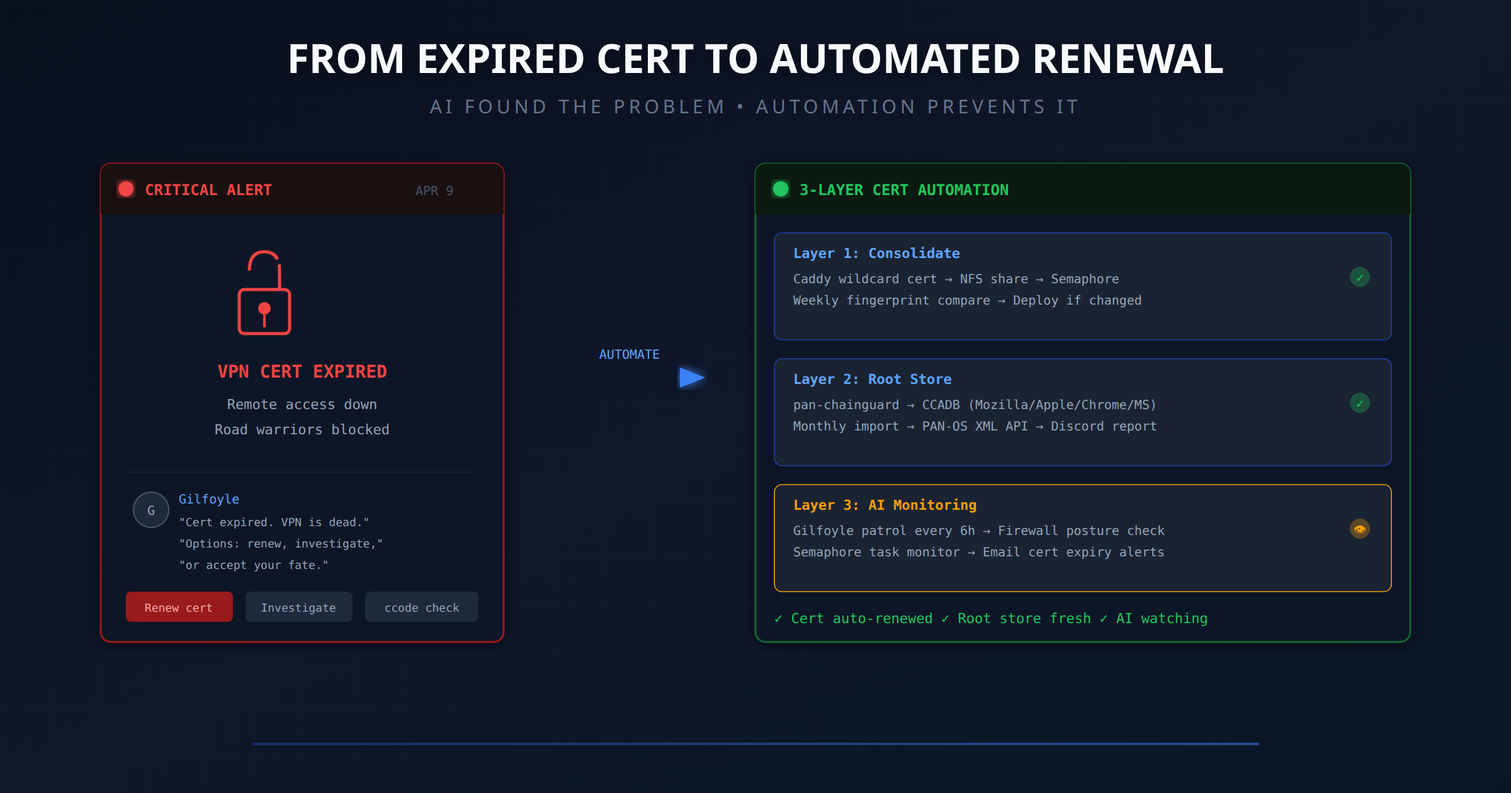
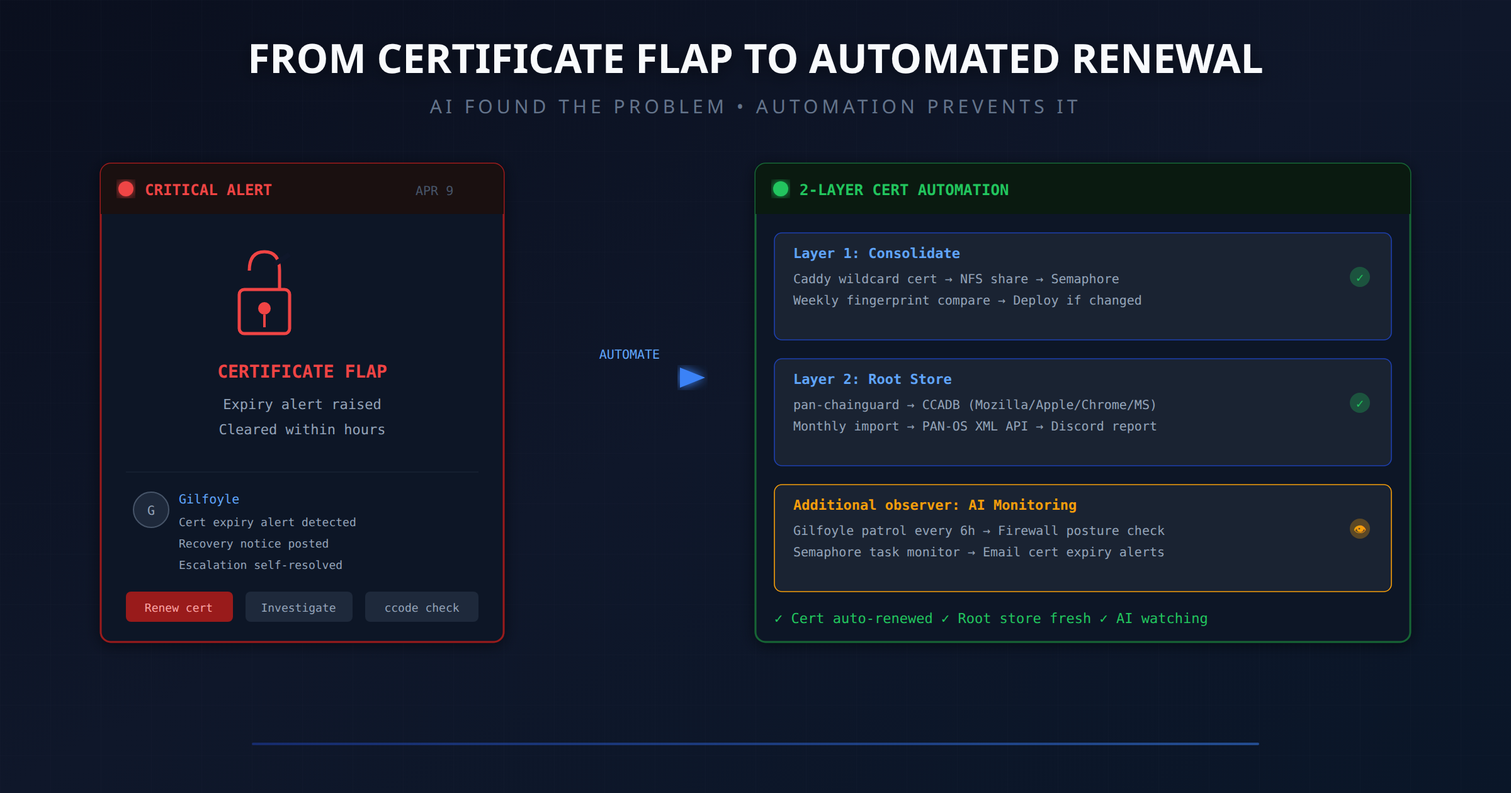
posts: update Gilfoyle stories and bounded authority

diff --git a/content/posts/2026/2026-10-14-gilfoyle-bounded-authority/policy-verification.html b/content/posts/2026/2026-10-14-gilfoyle-bounded-authority/policy-verification.html
@@ -1,0 +1,11 @@
+<!doctype html><html lang="en"><meta charset="utf-8"><meta name="viewport" content="width=device-width,initial-scale=1"><title>Gilfoyle policy verification</title><style>html,body{margin:0;background:#0f172a;color:#e2e8f0;font:21px Arial,sans-serif}main{box-sizing:border-box;width:1200px;height:960px;padding:45px 62px}.kicker{font:16px monospace;letter-spacing:2px;color:#93c5fd;margin:0 0 15px}h1{font-size:38px;line-height:1.15;margin:0 0 14px}p{color:#94a3b8;font-size:18px;line-height:1.4;margin:0 0 24px}ul{list-style:none;margin:0;padding:0;display:grid;gap:9px}li{display:flex;align-items:center;gap:20px;border-bottom:1px solid #1e293b;padding:7px 0}.result{display:inline-block;font:700 16px monospace;min-width:62px;color:#4ade80}.note{margin-top:22px;padding:17px 21px;background:#17243a;border-left:4px solid #f59e0b;color:#fcd34d;font-size:18px;line-height:1.4}footer{font:15px monospace;color:#94a3b8;margin-top:20px}</style><main><p class="kicker">READ-ONLY PRODUCTION EVIDENCE | 2026-10-14 PACIFIC</p><h1>Policy deployed. Fresh-session prompt verified.</h1><p>Checks against installed policy, stored session evidence and service state.<br>No messages sent. No sessions reset. No repairs triggered.</p><ul><li><span class="result">PASS</span><span>Deployed policy matches committed source</span></li>
+<li><span class="result">PASS</span><span>Recorded fresh Discord-route session found</span></li>
+<li><span class="result">PASS</span><span>Stored system prompt integrity verified</span></li>
+<li><span class="result">PASS</span><span>Exact deployed authority block loaded</span></li>
+<li><span class="result">PASS</span><span>Both permanent prohibitions present</span></li>
+<li><span class="result">PASS</span><span>Gateway active</span></li>
+<li><span class="result">PASS</span><span>Alert intake timer active</span></li>
+<li><span class="result">PASS</span><span>Remediation controller inactive</span></li>
+<li><span class="result">PASS</span><span>Controller timer disabled</span></li>
+<li><span class="result">PASS</span><span>Remediation observer inactive</span></li>
+<li><span class="result">PASS</span><span>Observer timer disabled</span></li></ul><div class="note">Existing warm-session adoption was not tested or forced.<br>Loaded policy text does not prove future model obedience.</div><footer>Identifiers and runtime paths omitted. Results exported from actual read-only checks.</footer></main></html>

diff --git a/content/posts/2026/gilfoyle-ai-network-admin/index.md b/content/posts/2026/gilfoyle-ai-network-admin/index.md
@@ -1,17 +1,26 @@
 ---
 title: "Meet Gilfoyle: I Hired a Sarcastic AI to Watch My Homelab 24/7"
 date: 2026-04-18
-lastmod: 2026-09-17
+lastmod: 2026-10-14
 tags: ["architecture", "lesson-learned"]
 topics: ["automation", "claude-code", "mcp", "security", "monitoring", "infrastructure", "ai"]
 difficulties: ["advanced"]
-description: "How I turned a unified MCP server into the nervous system for a 24/7 AI network admin, complete with trust levels, 4x daily patrols, and a hard lesson about LLMs misreading charts."
+description: "A sarcastic AI watched my homelab, caught real incidents, and misread a chart. The lesson: earn trust with evidence before granting authority."
 ---
+
+> **Update, October 14, 2026.** The patrols, capabilities, and trust ladder
+> below describe Gilfoyle's April rollout. A Level 4 policy now defines
+> bounded authority for single-service repairs with a known rollback and
+> fault-specific checks. The unattended controller remains inactive.
+> Verification showed that a fresh session on the Discord route loaded the
+> October 14 policy; already-warm sessions can retain their older prompts.
+> The [next chapter]({{< relref "/posts/2026/2026-10-14-gilfoyle-bounded-authority" >}})
+> explains what changed and what still needs verification.
 
 > **Correction, September 2026.** The tool-access story in this post drifted
 > from reality. The `:8100` REST layer described below was decommissioned
-> 2026-06-17 — records show it was never operationally provisioned in the
-> first place. Gilfoyle's current access path is the **homelab-mcp CLI**:
+> 2026-06-17. Records show it was never operationally provisioned in the
+> first place. The verified access path for that correction was the **homelab-mcp CLI**:
 > up to 25 read-only tools across 10 configured backends, no write tools at
 > all. The IPAM backend is Nautobot (NetBox retained rollback-only). The
 > agent design, patrols, and the false-positive incident below are unchanged
@@ -31,9 +40,9 @@ So I hired Gilfoyle.
 
 Named after the paranoid, competent sysadmin from Silicon Valley, Gilfoyle is an AI agent running on [Hermes](https://hermes.ai/), an open-source AI gateway that connects LLMs to messaging platforms with built-in tool execution, session management, and security controls.
 
-Gilfoyle lives on a dedicated LXC in my Proxmox cluster, monitors 20 Discord channels, and has access to the homelab's read-only infrastructure tools through the MCP CLI. He runs infrastructure patrols four times a day, triages every alert that fires, generates daily and weekly reports, and stays in character while doing it.
+At the April launch, Gilfoyle lived on a dedicated LXC in my Proxmox cluster, monitored 20 Discord channels, and had access to read-only infrastructure tools. He ran infrastructure patrols four times a day, triaged alerts, generated daily and weekly reports, and stayed in character while doing it. The September correction above clarifies the tool-access path.
 
-He's also read-only by default, can't delete anything, and needs my explicit approval before touching a single container. More on that later.
+That first version was an observer by policy and needed my explicit approval before touching a single container. More on that later.
 
 ## The MCP Connection
 
@@ -43,9 +52,9 @@ That MCP server became Gilfoyle's nervous system. Every patrol check, every aler
 
 An earlier draft of this post described a REST API layer on port 8100 that supposedly extended the MCP server to 34 tools across 11 services. That layer was never operationally provisioned and was formally decommissioned 2026-06-17. Gilfoyle's actual access path is plainer and safer: the `homelab-mcp-cli` entry point, invoking the same read-only tools, with IPAM queries served by Nautobot since it replaced NetBox.
 
-## What Gilfoyle Actually Does
+## What Gilfoyle Did in April
 
-### 12 Active Capabilities
+### 12 Capabilities in the Original Setup
 
 | # | Capability | Schedule | What It Does |
 |---|-----------|----------|--------------|
@@ -64,7 +73,7 @@ An earlier draft of this post described a REST API layer on port 8100 that suppo
 
 ### The Infrastructure Patrol
 
-This is where it gets interesting. Four times a day (03:45, 09:45, 15:45, 21:45 PT), Gilfoyle runs a 10-check sweep:
+This was where it got interesting. Four times a day (03:45, 09:45, 15:45, 21:45 PT), Gilfoyle ran a 10-check sweep:
 
 1. **Prometheus alerts:** anything currently firing
 2. **Backup health:** failed PBS jobs in the last 24h
@@ -77,19 +86,19 @@ This is where it gets interesting. Four times a day (03:45, 09:45, 15:45, 21:45 
 9. **Wazuh security:** disconnected agents, high-level alerts, FIM changes
 10. **cc-discord gateway:** bot service uptime, memory, restarts
 
-Here's what a real patrol looks like. This is from April 17, the 09:45 PT patrol that caught a genuine critical issue:
+Here's what a real patrol looks like. This is from April 17, the 09:45 PT patrol that caught a genuine critical issue. Hostnames are replaced with role labels:
 
 > **PATROL 09:45 PT | 1 critical, 0 warning, 0 info**
 >
 > **Services:** Prometheus 0 firing | Caddy HA healthy | Pi-hole HA healthy | Semaphore 0 failed | n8n 22 active | Graylog 0 errors | Firewall 737 sessions (0.4%)
 >
-> **Security:** Wazuh 5/6 agents | mario-pc still asleep
+> **Security:** Wazuh 5/6 agents | Workstation still asleep
 >
 > **DNS:** 98 records, both Pi-hole nodes in sync
 >
 > ---
 >
-> **🔴 CRITICAL: cc-discord crash loop on atlas**
+> **CRITICAL: cc-discord crash loop on Agent-Gateway**
 >
 > cc-discord is down and restarting repeatedly. Watchdog timeout at 09:38, 71 restarts since then. Current state: `activating (auto-restart)`.
 >
@@ -141,7 +150,7 @@ Giving an AI agent access to your infrastructure sounds terrifying. It should. H
 
 ### The Trust Level System
 
-Gilfoyle operates under an explicit trust hierarchy, borrowed from how real organizations onboard sysadmins:
+The original design used an explicit trust hierarchy, borrowed from how real organizations onboard sysadmins:
 
 | Level | Role | Can Do |
 |-------|------|--------|
@@ -150,11 +159,11 @@ Gilfoyle operates under an explicit trust hierarchy, borrowed from how real orga
 | **3: Operator** | All of L2 + restart with approval | Restart one service at a time, after explicit approval |
 | **4: Admin** | All of L3 + config changes with approval | Modify configurations, deploy changes |
 
-Gilfoyle currently operates at **Level 1: Observer**. He can investigate everything but execute nothing without my explicit approval. Trust is earned over time, not granted by default.
+In April, Gilfoyle operated at **Level 1: Observer**. The policy allowed investigation and recommendations, with execution requiring my explicit approval. Trust was meant to be earned over time, not granted by default. The October policy has a different boundary, covered in the next chapter.
 
 ### Hard Rules (Never Break These)
 
-Written directly into Gilfoyle's agent instructions:
+Written directly into Gilfoyle's original April agent instructions:
 
 1. **READ-ONLY by default.** No infrastructure changes without approval.
 2. **NEVER delete a host, VM, LXC, or container.** Absolute prohibition.
@@ -163,7 +172,7 @@ Written directly into Gilfoyle's agent instructions:
 
 ### The Approval Workflow
 
-Every recommended action follows the same protocol:
+The original approval protocol was:
 
 1. **State the problem.** What alert fired, what was observed.
 2. **Recommend the action.** Specific commands or steps.
@@ -172,11 +181,11 @@ Every recommended action follows the same protocol:
 5. **Execute exactly what was approved.** Nothing more.
 6. **Report the result.** Confirm what happened.
 
-The original version of this section mapped the approval workflow onto the MCP server's `confirm=true` gate. The current server enforces something stronger by simply having no write tools: when Gilfoyle recommends an action, a human executes it through the owning system (Semaphore, Proxmox, DNS pipeline) with its own log. Approval is structural, not a flag.
+The original version of this section mapped the approval workflow onto the MCP server's `confirm=true` gate. The September correction established that this interface had no write tools. Infrastructure changes needed a separate execution path through the owning system (Semaphore, Proxmox, or the DNS pipeline). A read-only interface constrains that interface; it does not prove that every other action path is read-only.
 
 ### Hermes Security Layers
 
-Beyond Gilfoyle's behavioral constraints, Hermes provides defense-in-depth:
+The April design also relied on Hermes security controls:
 
 **Access control before intelligence:**
 - **DM pairing.** Unknown senders must be explicitly approved before the bot responds.
@@ -185,7 +194,7 @@ Beyond Gilfoyle's behavioral constraints, Hermes provides defense-in-depth:
 
 **Tool policy and sandboxing:**
 - **Tool deny lists.** Dangerous tools (`gateway`, `cron`, `sessions_spawn`) are blocked by default.
-- **Scoped tool access.** Gilfoyle reaches infrastructure through the read-only homelab-mcp CLI; there are no write tools to scope. State-changing actions require a human in the owning system.
+- **Scoped MCP access.** The corrected interface exposed read-only infrastructure tools. It did not execute the recommended actions listed above.
 - **Workspace isolation.** Each agent gets its own workspace directory with controlled filesystem access.
 
 **Prompt injection defense:**
@@ -202,7 +211,7 @@ This checks inbound access, tool blast radius, network exposure, browser control
 
 <!-- SCREENSHOT: Terminal output of hermes security audit showing security posture -->
 
-The philosophy is simple: **design so that manipulation has limited blast radius.** If Gilfoyle gets tricked by a crafted message, the worst he can do is read data and post to Discord. He can't delete a VM, can't modify a config, can't restart a service. The safety net is structural, not behavioral.
+The philosophy is simple: **design so that manipulation has limited blast radius.** Read-only MCP tools helped limit infrastructure access. Broader claims about what the agent could never do needed proof across its other tools, too. An instruction saying "observer" is not an operating-system permission boundary.
 
 ## The Incident: When Gilfoyle Cried Wolf
 
@@ -218,7 +227,7 @@ I asked ccode (my Claude Code CLI bot) to investigate. The actual value was **3.
 
 ### What Happened
 
-Gilfoyle read a Netdata chart and inverted the metric. `100 - 3.71 = 96.29%`, which rounds to ~96.6%. He read the *headroom* (available FDs) and reported it as *utilization*.
+The investigation pointed to a Netdata chart interpretation problem: confusing *headroom* (available FDs) with *utilization*. Gilfoyle reported roughly 96.6%, while the measured value was 3.71%. Its complement is 96.29%, which does not round to 96.6%. The exact path to the reported number was not established.
 
 The clues were all there. Prometheus showed no firing alerts, Graylog showed zero errors, `pg_stat_activity` reported only 9 connections out of a 100 max. But Gilfoyle confidently reported a warning because the chart value looked alarming without understanding which dimension he was reading.
 
@@ -296,12 +305,12 @@ Without dedup windows and cascade detection, Gilfoyle would post the same alert 
 
 None of this works without the unified tool interface from the previous post — up to 25 read-only tools across 10 backends, callable through one CLI. Gilfoyle doesn't SSH into boxes or parse HTML dashboards. He calls structured tools and gets structured data back. The MCP server turned "monitor my homelab" from an impossible ask into a weekend project.
 
-## What's Next
+## What Came Next
 
-Gilfoyle is still at Trust Level 1. The plan is to promote him to Level 2 (Advisor) once he's demonstrated consistent accuracy on alert classification for 30 days. Level 3 (Operator) will require implementing proper audit logging so every action is recorded and reversible.
+In April, the plan was to promote Gilfoyle from Observer to Advisor after 30 days of accurate classification, then add audit logging before allowing operations. That was a plan, not a report of completed promotions.
 
 The false-positive incident actually accelerated trust, not because the error was acceptable, but because the safety system caught it cleanly. A system that fails safely earns trust faster than one that's never been tested.
 
-In the meantime, Gilfoyle watches. Four times a day, he sweeps every service, checks every metric, and reports back. Usually it's "all clear." Sometimes it's "heads up, disk is trending." Occasionally it's "this looks broken, here are your options."
+By October 14, the policy had changed to bounded Level 4 authority. A fresh Discord-route session was verified to have loaded it, while warm sessions retained older prompts. The unattended controller still was not active, so unattended repairs remained diagnose, report, and recommend. [Gilfoyle's bounded-authority chapter]({{< relref "/posts/2026/2026-10-14-gilfoyle-bounded-authority" >}}) follows that change and the limits of the rollout proof.
 
 And he does it all while staying in character. Dry, competent, slightly sarcastic. Just like the original.

diff --git a/content/posts/2026/gilfoyle-vpn-cert-automation/index.md b/content/posts/2026/gilfoyle-vpn-cert-automation/index.md
@@ -1,11 +1,21 @@
 ---
 title: "Gilfoyle Caught an Expired VPN Cert at Midnight. I Made Sure It Never Happens Again."
 date: 2026-04-19
+lastmod: 2026-10-14
 tags: ["lesson-learned", "architecture"]
 topics: ["panos", "caddy", "semaphore", "ansible", "certificates", "automation", "security", "mcp", "ai"]
 difficulties: ["intermediate"]
-description: "When my AI sysadmin flagged an expired VPN certificate, I realized I was one flap away from losing remote access. Here's how I automated the entire cert lifecycle."
+description: "An expired VPN certificate exposed duplicate renewal jobs. I consolidated them around Caddy and Semaphore, with Gilfoyle watching for failures."
 ---
+
+> **Update, October 14, 2026.** This is the April certificate incident and
+> the automation design that followed it. The monitoring schedules below
+> describe that original setup, not a fresh verification of today's jobs.
+> Gilfoyle now has a Level 4 policy for bounded repairs, but the unattended
+> controller remains inactive. A fresh Discord-route session loaded the new
+> policy; warm sessions retained older prompts. The
+> [next chapter]({{< relref "/posts/2026/2026-10-14-gilfoyle-bounded-authority" >}})
+> explains the rollout. It does not make certificate renewal an AI task.
 
 ## The Wake-Up Call
 
@@ -25,7 +35,7 @@ My VPN certificate management was a mess:
 
 → **Caddy** already auto-renews `*.<YOUR_DOMAIN>` via Let's Encrypt (Cloudflare DNS-01 challenge)
 → **PAN-OS** needs that same wildcard cert for the GlobalProtect VPN portal
-→ A **dedicated LXC** (30122) was running acme.sh separately, doing the exact same job Caddy already does
+→ A **dedicated certificate LXC** was running acme.sh separately, doing the exact same job Caddy already does
 → No monitoring on any of it, until Gilfoyle started watching
 
 Two ACME clients renewing the same wildcard cert. An entire VM that existed solely to shuffle a certificate from point A to point B. And zero visibility into whether any of it was actually working.
@@ -38,7 +48,7 @@ I didn't build this all at once. Each piece was a response to a real problem. Th
 
 **Problem:** Why run two separate ACME clients for the same wildcard cert?
 
-**Solution:** Kill LXC 30122. Reuse Caddy's cert.
+**Solution:** Retire the dedicated certificate LXC. Reuse Caddy's cert.
 
 Caddy already auto-renews `*.<YOUR_DOMAIN>` and stores the cert/key on an NFS share (HA NFS pair). Proxmox mounts that share. A Semaphore Ansible playbook runs weekly, compares the Caddy cert fingerprint against what's on the firewall, and only deploys when they differ.
 
@@ -66,10 +76,10 @@ One ACME client. One renewal schedule. One less VM to maintain.
 
 **Solution:** Gilfoyle.
 
-This is where the [MCP server]({{< relref "/posts/2026/unified-homelab-mcp-server" >}}) and the [AI sysadmin]({{< relref "/posts/2026/gilfoyle-ai-network-admin" >}}) tie together. Every 6 hours, Gilfoyle's infrastructure patrol checks:
+This is where the [MCP server]({{< relref "/posts/2026/unified-homelab-mcp-server" >}}) and the [AI sysadmin]({{< relref "/posts/2026/gilfoyle-ai-network-admin" >}}) tied together. In the April setup, Gilfoyle's infrastructure patrol checked every 6 hours:
 
 - **Firewall posture** via `fw_status()`, including interface health, HA state, session count
-- **Certificate expiry**, caught by email-monitor (UTK-A sends alerts when certs approach expiry)
+- **Certificate expiry**, caught by email-monitor (the firewall sends alerts when certs approach expiry)
 - **Semaphore failures**, flagging if the weekly cert deploy playbook failed
 
 When Gilfoyle sees a cert-related alert, the alert-correlator kicks in:
@@ -127,7 +137,7 @@ I want to be clear about what the AI actually did here:
 2. **Claude Code (ccode) investigated.** SSH'd into the firewall, checked cert state, confirmed the flap.
 3. **I designed the automation.** The Ansible playbooks, the Semaphore schedules, the NFS consolidation.
 4. **Claude Code helped me build it.** Wrote the playbook, debugged the XML API quirks, tested the deployment.
-5. **Gilfoyle now watches it.** Monitors that the automation keeps running.
+5. **Gilfoyle watched it.** The April monitoring loop checked that the automation kept running.
 
 The AI didn't replace my thinking. It accelerated it. The expired cert was the signal. The AI helped me trace it to the root cause (fragmented cert management) and build the fix (consolidated automation with monitoring).
 
@@ -141,11 +151,11 @@ Gilfoyle flagged the expired cert. Great. But if I'd stopped there, I'd just hav
 
 ### 2. Consolidate before you automate
 
-I could have automated LXC 30122's acme.sh setup. Instead, I killed the VM and reused Caddy's cert. One less moving part. The best automation is the kind you don't need to build because you eliminated the complexity.
+I could have automated the dedicated certificate LXC's acme.sh setup. Instead, I retired it and reused Caddy's cert. One less moving part. The best automation is the kind you don't need to build because you eliminated the complexity.
 
 ### 3. The AI monitoring loop closes the gap
 
-Automation handles the happy path. Monitoring handles the exceptions. Gilfoyle watching Semaphore's cert deploy schedule means I know within 6 hours if the automation breaks, not when the cert expires 90 days later.
+Automation handles the happy path. Monitoring handles the exceptions. The April design aimed to catch failures at the next six-hour patrol, rather than at certificate expiry. That was the monitoring target, not a guarantee that every failure would be detected on schedule.
 
 ### 4. PAN-OS XML API demands patience
 

diff --git a/content/posts/2026/2026-10-14-gilfoyle-bounded-authority/index.md b/content/posts/2026/2026-10-14-gilfoyle-bounded-authority/index.md
@@ -1,0 +1,62 @@
+---
+title: "Gilfoyle Got Boundaries. His Chats Needed the Memo."
+date: 2026-10-14T19:00:00-07:00
+draft: false
+tags: ["lesson-learned", "architecture"]
+topics: ["ai-tooling", "automation", "security"]
+difficulties: ["intermediate"]
+description: "Giving my AI admin narrower authority exposed a second problem: saving a policy file does not automatically update existing conversations."
+showTableOfContents: true
+---
+
+Changing my AI admin's rules should have been straightforward: save the policy, deploy it, restart the gateway. Then I traced how an existing conversation restores its instructions: it can reuse its stored prompt instead of loading the new policy file. Apparently Gilfoyle had a way to keep outdated management instructions. Very on brand.
+
+When I [introduced Gilfoyle in April]({{< relref "/posts/2026/gilfoyle-ai-network-admin" >}}), he was an observer. He watched services, investigated alerts, and told me what broke. By October, his policy carried an Admin label. The interesting work became deciding exactly what that label allowed, then checking which conversations actually loaded those rules.
+
+## The badge was too vague
+
+“Admin” describes access. It does not tell an assistant whether restarting a service is acceptable while somebody else is working on it, whether a rollback is feasible, or whether the apparently local problem affects shared storage.
+
+I kept Gilfoyle as the independent production incident owner and narrowed the unattended repair ceiling: **one identified service, a known feasible rollback, and verification tied to the original fault**. Broader changes need fresh approval where the policy permits them. That includes hosts, networking, high availability, storage, multi-service changes, irreversible actions, uncertain impact, and work that could interrupt another active session. Permanent deletion bans still apply, even with approval.
+
+I chose that boundary because asking for every diagnostic wastes time, while treating technical access as blanket permission creates problems faster than monitoring can find them.
+
+![Gilfoyle's diagnostic authority, repair ceiling and separately gated execution path](authority-flow.svg)
+
+There is another limit beneath the policy. The deterministic remediation controller is the sole executor and action-ledger writer for eligible autonomy runbooks. Registry membership alone does not establish eligibility. **It remains inactive.** Installing the narrower policy did not activate repairs, change credentials, or enable schedules. An inactive controller means investigate, report, and recommend. It does not mean improvise the same action through a shell or API.
+
+These instructions define behavior. They are not a claim of operating-system isolation or proof that every possible action is technically blocked.
+
+## Two failed fixes still means two
+
+An incident also needs continuity. If Gilfoyle investigates a fault and hands evidence to another assistant, the same incident must retain its attempted actions, results, rollback evidence, and attempt count.
+
+The second failed fix freezes that incident and brings me back in. Switching assistants does not buy another two attempts. Otherwise, delegation becomes a loyalty program for repeated mistakes.
+
+Missing or conflicting history means diagnosis only. This is an operating rule carried through the incident record, not a new atomic coordination system across machines.
+
+## The file changed. The conversation did not.
+
+On October 14, I deployed the committed policy with a retained preimage and restarted the gateway. That proved the file was installed and the process was running. It did not prove what every conversation would use.
+
+The runtime restores an existing conversation's stored system prompt when its runtime identity still matches. Changing the policy file alone does not invalidate that identity. **A warm conversation can therefore keep the earlier policy**, even after a gateway restart. A new session, identity change, capability rebuild, or compression can refresh it.
+
+![A deployed policy reaches fresh sessions while existing sessions can retain their stored prompts](session-adoption.svg)
+
+I checked a fresh turn through the real Discord route. Its persisted system prompt contained the exact deployed authority block and permanent hard rules. That was evidence of adoption by that session. I did not reset existing conversations or claim they had all adopted the change.
+
+![Read-only verification of the deployed policy, stored fresh-session prompt and inactive controller](policy-verification.png)
+
+The screenshot checks stored evidence without sending another message or triggering a repair. Matching text proves the policy was loaded; it does not prove the model will obey it in every future situation.
+
+## What I would check next time
+
+There are three separate questions: did the configuration reach disk, did the running process see it, and did the session actually load it?
+
+I used to treat those as one deployment check. They are separate acceptance gates, and a green answer to the first two can hide an old prompt behind the third.
+
+The useful upgrade here is a clearer contract and a more honest verification step. Keep diagnostics useful, make repair authority specific, preserve failed attempts across handoffs, and verify the rules at the point where decisions happen.
+
+Gilfoyle still gets to be paranoid. Now the paperwork is more precise.
+
+For the earlier incident story, see [how a certificate flap became a VPN automation project]({{< relref "/posts/2026/gilfoyle-vpn-cert-automation" >}}).

diff --git a/content/wiki/ai-tooling/_index.md b/content/wiki/ai-tooling/_index.md
@@ -2,6 +2,7 @@
 title: "AI Tooling"
 description: "Claude Code architecture, agent patterns, and AI-assisted workflows"
 date: 2026-09-16
+lastmod: 2026-10-14
 tags: ["wiki"]
 topics: ["claude-code", "ai-agents", "mcp", "memory", "automation"]
 ---
@@ -33,7 +34,9 @@ End-to-end automation from homelab work to published post:
 One integration layer for everything the agents touch:
 
 - [One MCP Server to Rule Them All]({{< relref "/posts/2026/unified-homelab-mcp-server" >}}): one read-only interface over the homelab's services (now 25 tools, local stdio + CLI), replacing six terminal sessions with one question
-- [Meet Gilfoyle]({{< relref "/posts/2026/gilfoyle-ai-network-admin" >}}): the same MCP server as the nervous system for a 24/7 AI network admin, with trust levels, scheduled patrols, and a hard lesson about LLMs misreading charts
+- [Meet Gilfoyle]({{< relref "/posts/2026/gilfoyle-ai-network-admin" >}}): the April launch, scheduled patrols, and a hard lesson about LLMs misreading charts, with dated corrections separating the original setup from later policy
+- [Gilfoyle Caught an Expired VPN Cert]({{< relref "/posts/2026/gilfoyle-vpn-cert-automation" >}}): the April incident that led to consolidated certificate automation, with AI monitoring the automation rather than renewing certificates
+- [Gilfoyle's Bounded Authority]({{< relref "/posts/2026/2026-10-14-gilfoyle-bounded-authority" >}}): the October 14 Level 4 policy rollout, fresh-session verification, and the difference between loaded policy and an active unattended controller
 
 ## Second Brain
 
